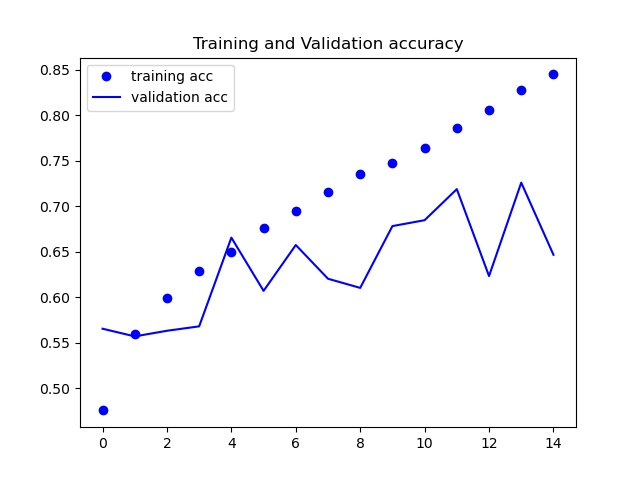
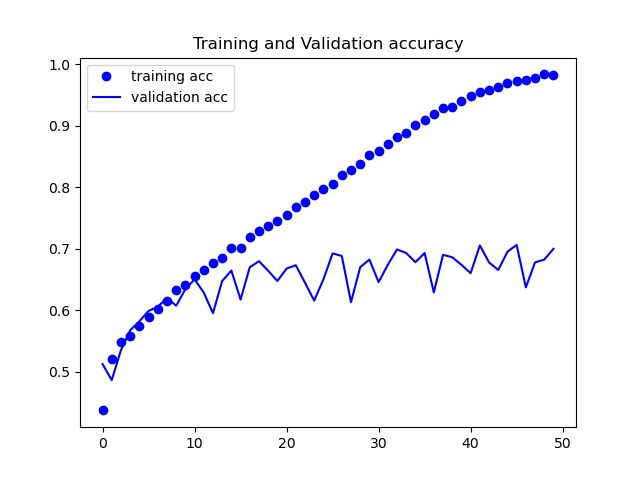
epochs_50 batch-size_32

diff --git a/food_speiceis.py b/food_speiceis.py
@@ -34,7 +34,7 @@ model.compile(loss="categorical_crossentropy",
 
 # モデルの学習
 model = model.fit(x_train,y_train,
-                  epochs=15,batch_size=6,
+                  epochs=15,batch_size=32,
                   validation_data=(x_test,y_test))
 
 # 学習結果表示
